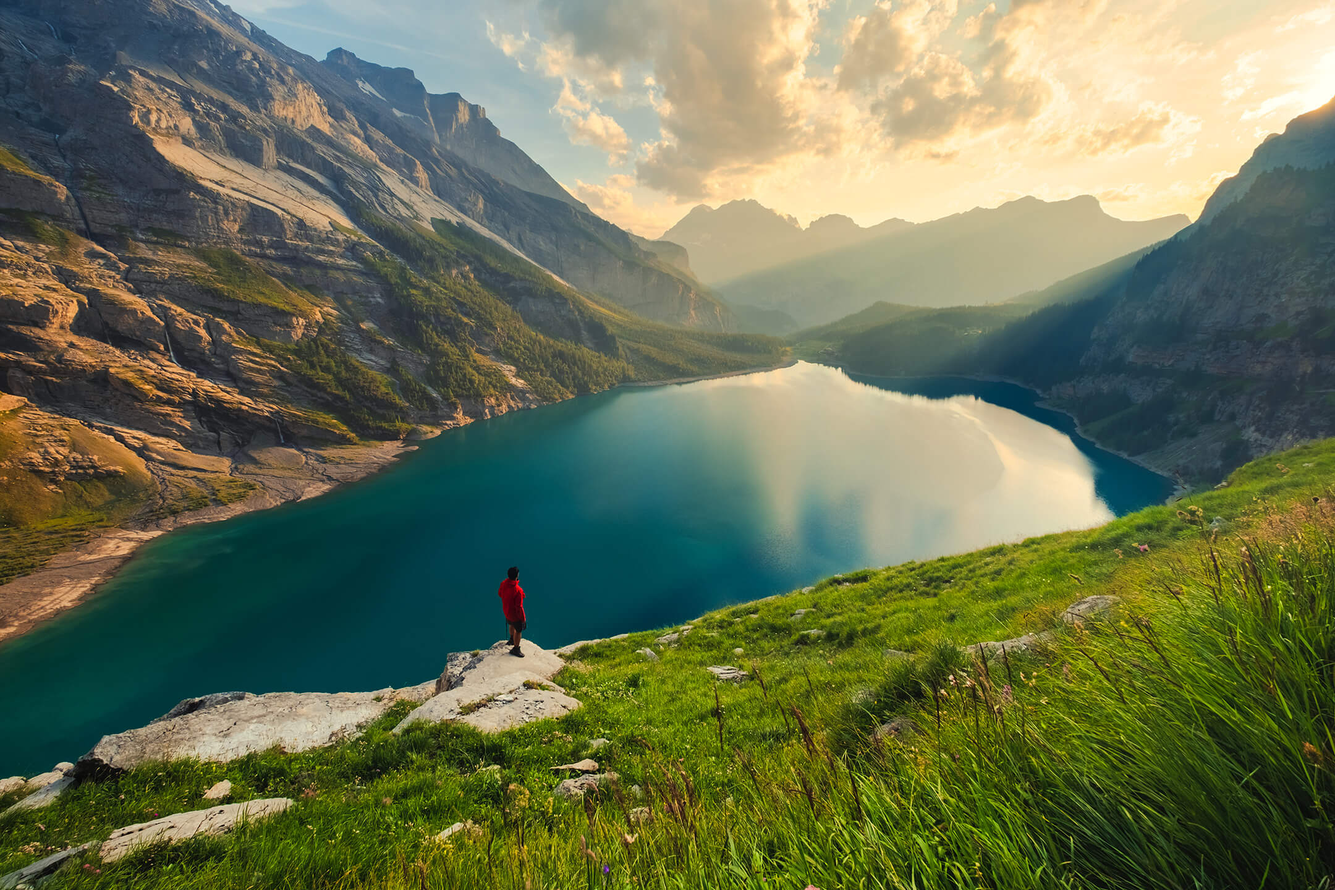
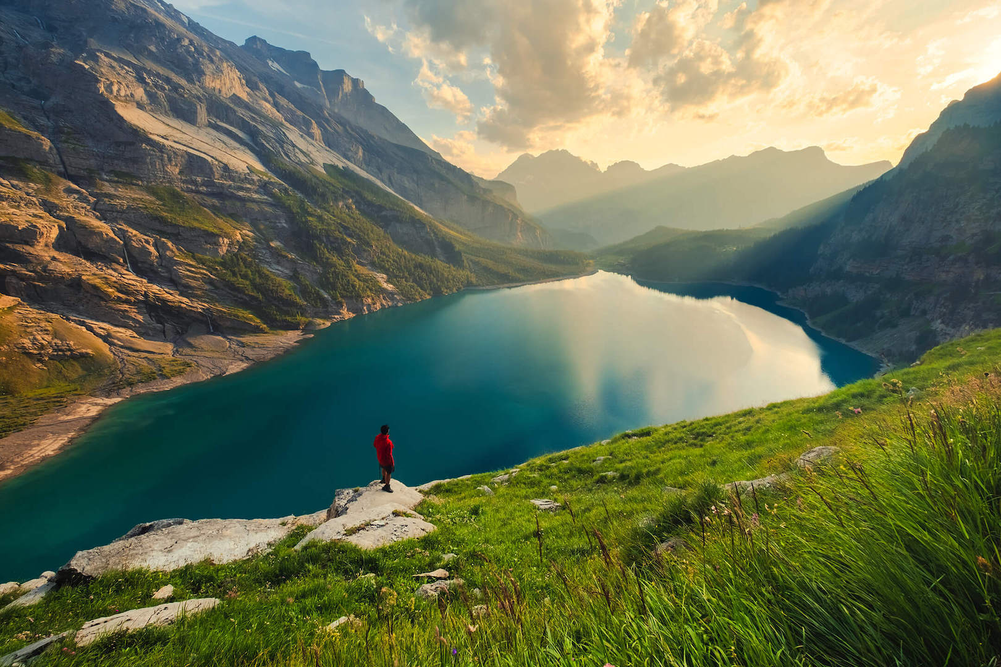
fixed photo

diff --git a/src/hero/Hero.module.scss b/src/hero/Hero.module.scss
@@ -198,7 +198,7 @@
         }
     }
     .heroBG {
-        background: url(./hero-mobile.png) no-repeat center center fixed;
+        background: url(./hero-mobile.jpg) no-repeat center center fixed;
     }
     .sectionLinks {
         z-index: 50;
